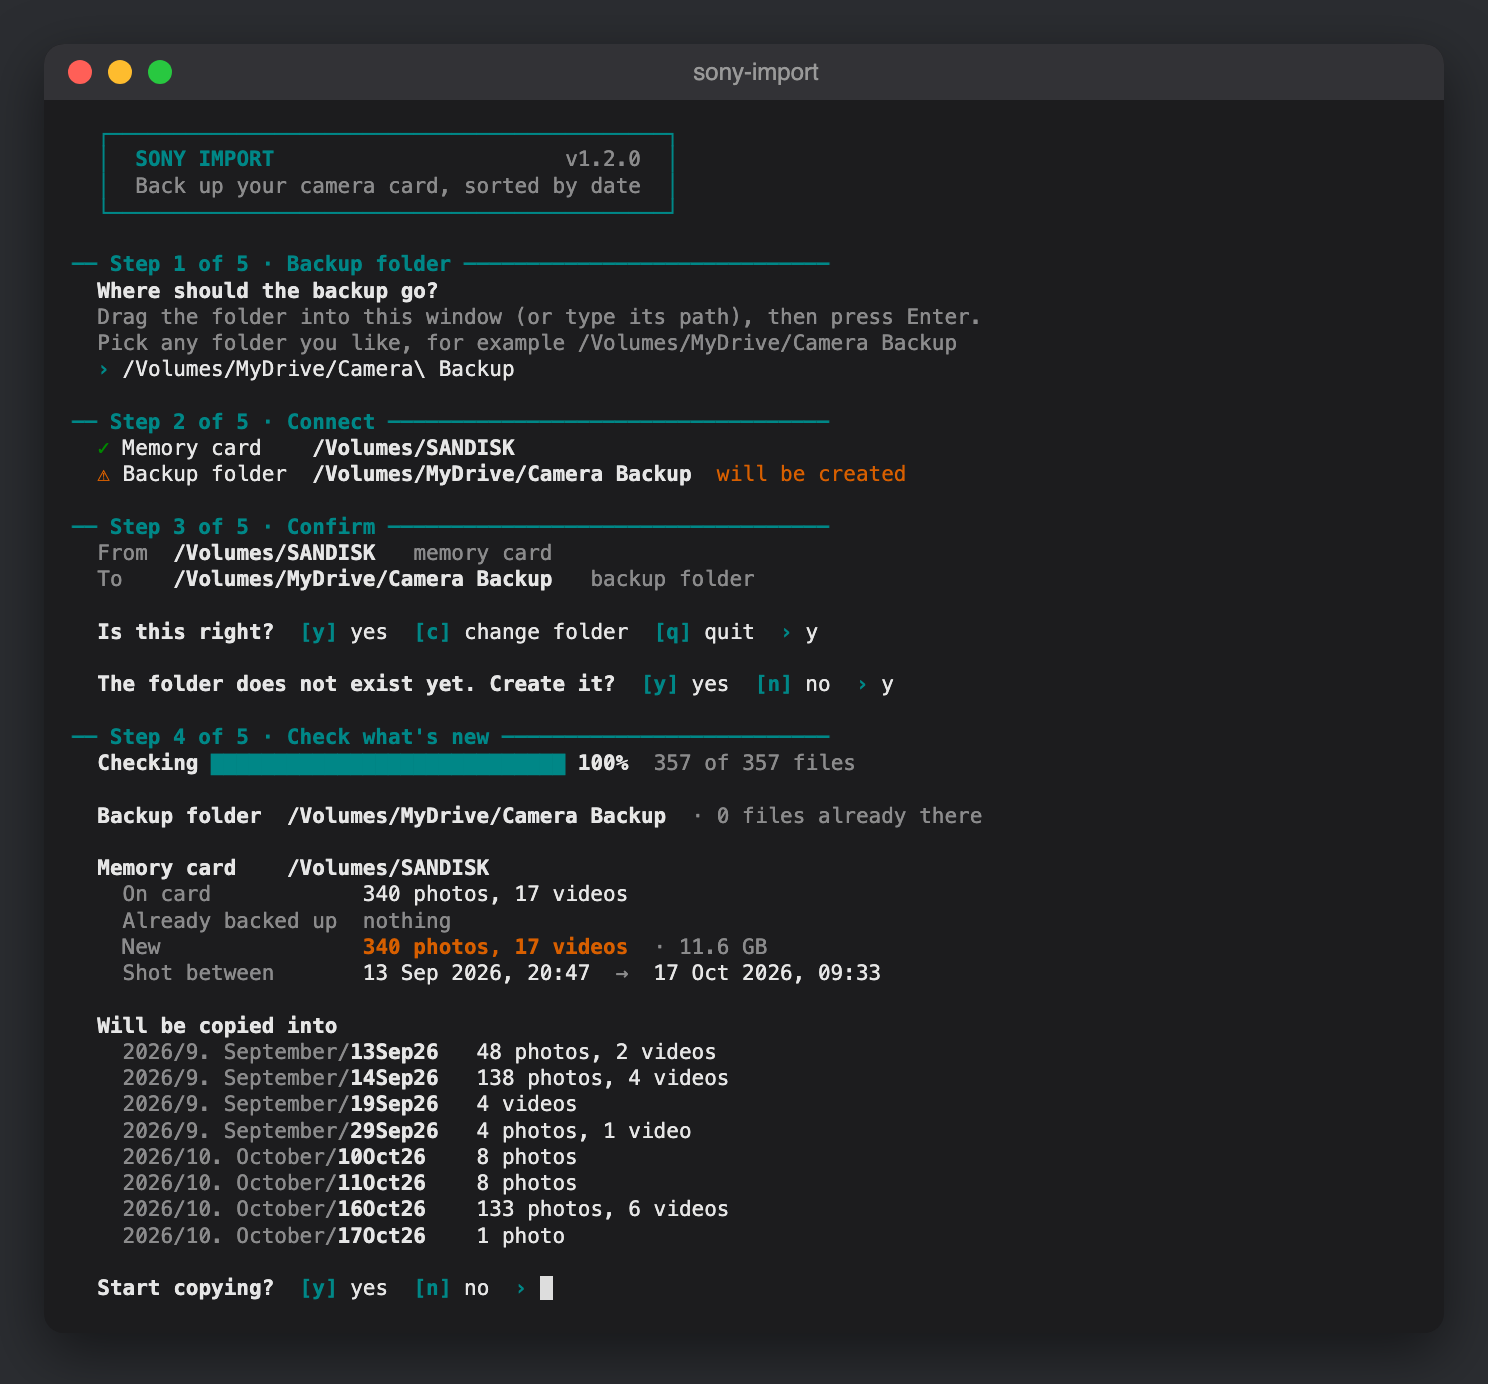
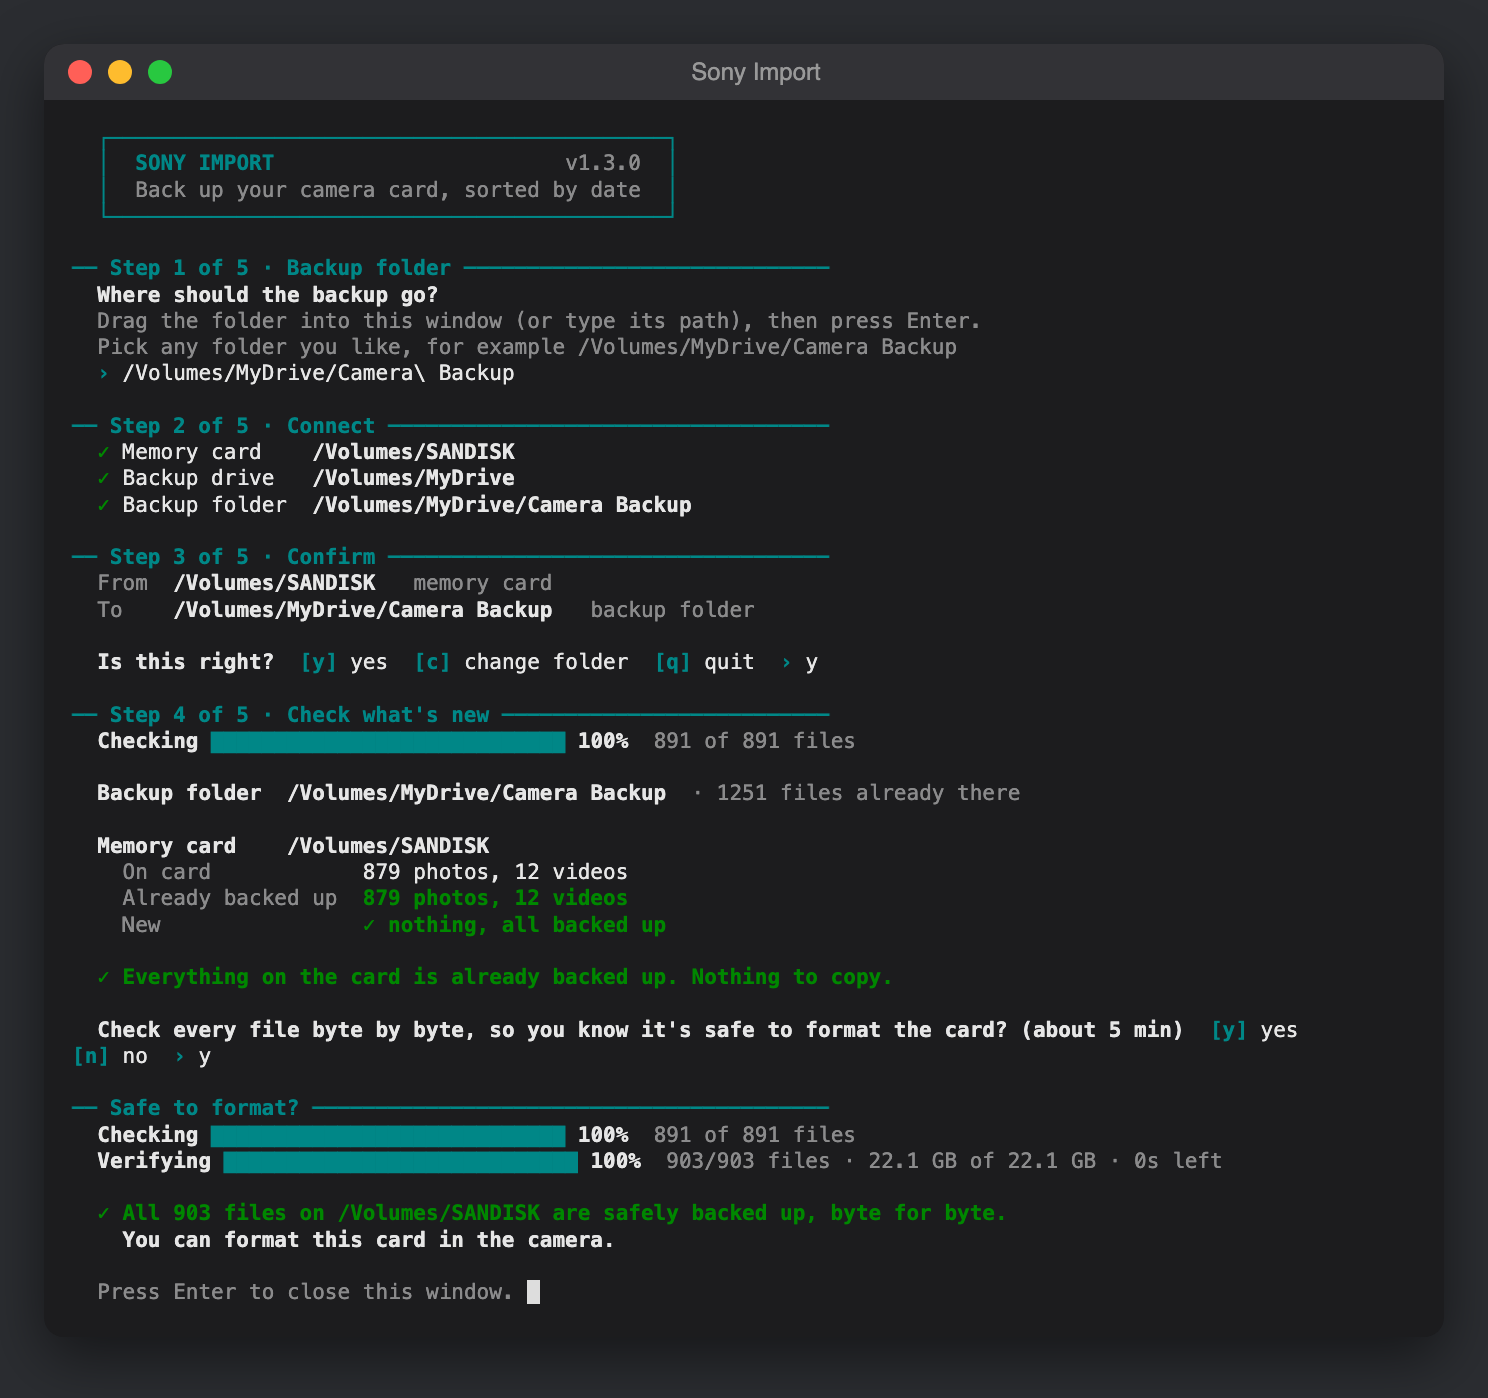
README: update for v1.3.0 (real safe-to-format screenshot, grouped features, uninstall, privacy)

diff --git a/README.md b/README.md
@@ -10,11 +10,11 @@
 Back up the photos and videos from your Sony camera's memory card, neatly sorted into
 **Year → Month → Day** folders. Run it again any time: it only copies what's new.
 
-<p align="center"><img src="docs/screenshot.png" alt="Sony Import checking a memory card before copying" width="720"></p>
+<p align="center"><img src="docs/screenshot.png" alt="Sony Import confirming that every file on a memory card is backed up and it's safe to format" width="720"></p>
 
 ## Install
 
-### Mac: one line, no security warnings
+### Mac and Linux: one line, no security warnings
 
 1. Open **Terminal**: press <kbd>⌘</kbd> <kbd>Space</kbd>, type `Terminal`, press <kbd>Enter</kbd>.
 2. Paste this line and press <kbd>Enter</kbd>:
@@ -26,8 +26,8 @@ Back up the photos and videos from your Sony camera's memory card, neatly sorted
 3. **Sony Import** now appears in your Applications folder and Launchpad. Double-click it whenever
    you want to back up a card.
 
-It picks the right version for your Mac (Apple or Intel chip) by itself. To update, run the same
-line again. The same command also works on **Linux**.
+It picks the right version for your computer (Mac with Apple or Intel chip, or Linux) by itself.
+To update, run the same line again. On Linux, Sony Import appears in your app menu.
 
 ### Windows: one line, no security warnings
 
@@ -67,14 +67,13 @@ To update, run the same line again. No admin rights needed.
 ## How to use it
 
 1. Put the memory card in your computer, and plug in the drive you back up to.
-2. Open **Sony Import** from Applications (Mac) or the Start menu (Windows).
+2. Open **Sony Import**: from Applications on a Mac, the Start menu on Windows, or the app menu on Linux.
 3. **Choose your backup folder:** drag the folder into the window and press Enter. It can be any
    folder on any drive. Next time, just press Enter to reuse it.
-4. Check what it found, type `y` to start copying, and wait for **All done**.
-5. Want to format the card afterwards? Say `y` when it offers to **check every file byte by byte**.
+4. Check what it found and type `y` to start copying.
+5. **Planning to format the card?** Type `y` when it offers to check every file byte by byte.
    It tells you when it's safe to format the card in your camera.
-
-That's it. You can safely eject the card.
+6. When it says **All done**, press Enter to close the window and eject the card.
 
 Your backup folder will look like this:
 
@@ -92,25 +91,44 @@ Camera Backup/                ← the folder you chose
 
 ## What it does
 
-- **Never changes your memory card.** It only reads from it.
-- **Sorts by the date you took each photo.** There are no empty folders, and videos go in a
-  `Videos` folder inside their day.
-- **Never copies the same photo twice**, even if you renamed files in the backup or use several cards.
-- **Fills gaps.** If a video or RAW + JPG photo is only half backed up, it copies just the missing half.
-- **Gives every file one clean number** in shooting order (`DSC00001`…, `C00001`…), so names
-  never clash.
-- **Shot in RAW + JPG?** It offers to move the extra JPGs to the Trash. You can restore them from there.
-- **Tells you when it's safe to format the card:** an optional byte-for-byte check of every file
-  against your backup.
-- **Checks there's enough space** on your backup drive before copying anything.
-- **Tells you when an update is out**, with the one line to install it.
-- **Safe to interrupt.** If you close the window midway, just run it again to finish.
+**Keeps your photos safe**
+- Never changes your memory card. It only reads from it.
+- Checks there's enough space on your backup drive before copying anything.
+- Tells you when it's safe to format the card, after checking every file byte by byte.
+- Safe to interrupt. If you close the window midway, just run it again to finish.
+
+**Keeps them organised**
+- Sorts everything by the date you took it, with videos in a `Videos` folder inside their day.
+- Never copies the same photo twice, even if you renamed files in the backup or use several cards.
+- Fills gaps: if a video or RAW + JPG photo is only half backed up, it copies just the missing half.
+- Gives every file one clean number in shooting order (`DSC00001`…, `C00001`…), so names never clash.
+- Shot in RAW + JPG? It offers to move the extra JPGs to the Trash, where you can restore them.
+
+**Stays easy**
+- One line to install on Windows, Mac or Linux, with no security warnings.
+- Tells you when an update is out, with the line to install it.
 
 ## Good to know
 
 - **Cameras:** works with Sony Alpha (a6000 series, a7 series…) and ZV cameras. Tested on the a6600.
 - **Folder dates use the camera's clock**, so make sure it's set correctly.
-- **Checking a full card takes about a minute** before copying starts.
+- **Checking a full card takes about a minute** before copying starts. The byte-by-byte
+  "safe to format" check takes about a minute for every 2 GB on the card, depending on your card
+  reader.
+- **Privacy:** your photos never leave your computer. The only internet use is a quick check with
+  GitHub for a newer version. Set `SONY_IMPORT_NO_UPDATE_CHECK=1` to turn it off.
+
+<details>
+<summary>Uninstall</summary>
+
+- **Mac:** drag **Sony Import** from Applications to the Trash.
+- **Windows:** delete the folder `%LOCALAPPDATA%\Programs\Sony Import` and the **Sony Import**
+  shortcut in the Start menu (right-click it → Open file location).
+- **Linux:** delete `~/.local/bin/sony-import` and `~/.local/share/applications/sony-import.desktop`.
+
+Your backup folder and photos are never touched. The app also keeps one small settings file, the
+last backup folder you used, in `.sony-import.json` in your home folder. You can delete that too.
+</details>
 
 ---
 
